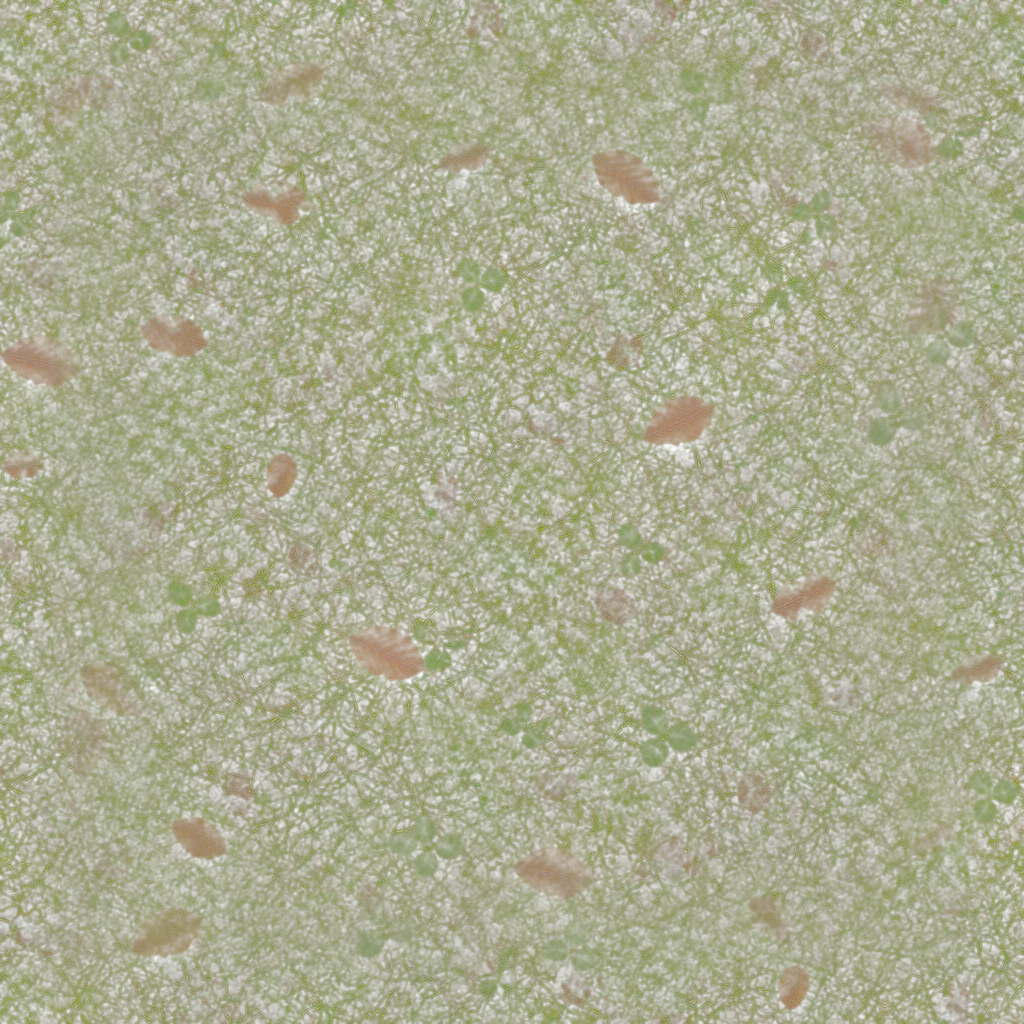
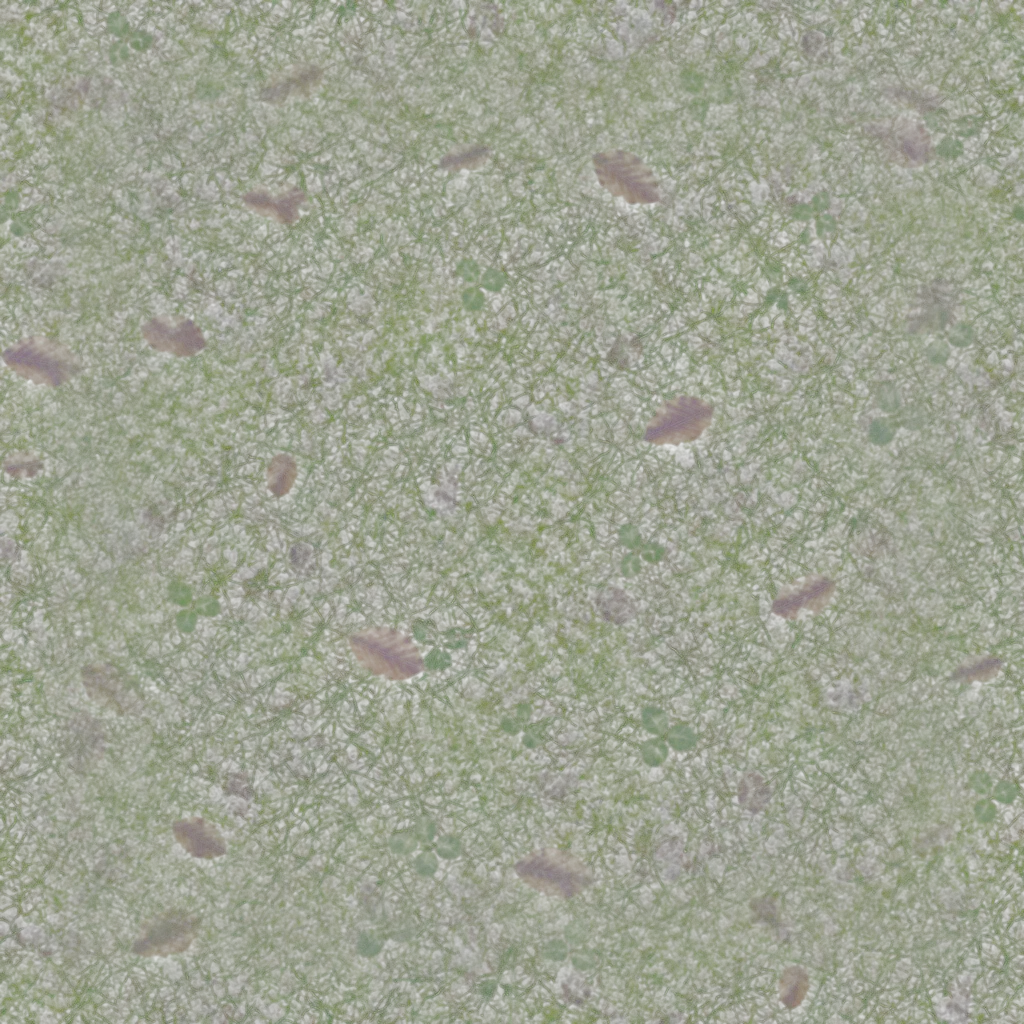
Calmer meadow colours; docs and credits for the Higgsfield assets
Claude-Session: https://claude.ai/code/session_01KVcgfLbb6B4p2PiuvDkZQT

diff --git a/NOTES.md b/NOTES.md
@@ -863,6 +863,30 @@ Asked for (in Danish) as one list. Each point, how I read it and what changed.
   over the key art, the map dropdown became picture cards (they drive the old, now hidden,
   select, so the LAN rule "the host chooses the map" still greys them out), and the loading
   screen shows the map being loaded.
+- **"Closer to 2026 than 2016"** (after upgrading Higgsfield): the user wants the existing world
+  upgraded (trees, houses, water, ghillie suit, rocks, leaves), not new objects. (A first try with
+  new landmark props was removed at once.)
+  - *Textures* (`src/hftextures.js`, files in `public/hf/`): every ground, bark and wall texture
+    and every foliage/ghillie card is a generated photo. Surfaces are made seamless (an offset
+    blend), get a height map from the high-passed luminance and a normal map from that, packed
+    like the procedural bakes (albedo + height, normal + roughness), so the existing terrain,
+    tree and rock shaders use them unchanged. Cards are generated on magenta and keyed to alpha,
+    colour-matched to the old palette (so camouflage still works) and bled into the transparent
+    texels. The photoscans (CI) still win for the conifer ground. `?hf=0` shows the old look.
+  - *Houses* (`src/models.js`, `Buildings._modelHouse`): three textured house models (farmhouse,
+    cottage, ochre village house; a tower house came out grey and was dropped), each on a stone
+    plinth that levels the slope, with a light copy beyond 90 m (effective). The collider is the
+    same convex house solid as before. Ruins stay procedural, now in photo stone.
+  - *Rocks*: three 3D rock models replace the icosphere boulders; the height maps for walking,
+    climbing and bullets are baked from the models exactly as from the old meshes.
+  - *Walls*: the masonry shader uses the photo walls with their normal maps (a derivative bump
+    from the photo's height was pixel noise, and texture reads inside the per-face branches had
+    undefined mip levels).
+  - *Water*: the mirror image skipped every near tree for speed, so the river reflected a bare
+    bank and the sky and looked milky; light copies of the near trees now stand in during the
+    reflection. Foam and white water read a real noise channel (they read a constant before), and
+    there are finer ripples near the camera.
+  - Size: about 14 MB of textures and 2.9 MB of models in the repository.
 - **Version 5.0.0** ("kald denne version 5.0"); the start screen shows *VERSION 5.0 ·
   PLAYER-REQUESTED UPDATES*. LAN and Steam players need the same version, as before.
 - **Not done / to check on a real PC:** frame rates with the new rifle, crowns and walls; the

diff --git a/CREDITS.md b/CREDITS.md
@@ -21,10 +21,15 @@ CC0 1.0, so credit is appreciated but not required.
 _No photoscanned textures downloaded. Run `npm run assets` to fetch CC0 textures from Poly Haven._
 <!-- photo-assets:end -->
 
-## Menu art
+## Menu art, textures and models made with Higgsfield
 
-The start screen's key art and the five map pictures (`public/ui/`) were generated for this
-project with [Higgsfield](https://higgsfield.ai) (Z Image model) from text prompts, in v5.0.
+Generated for this project with [Higgsfield](https://higgsfield.ai) in v5.0, from text prompts:
+
+- `public/ui/`: the start screen's key art and the five map pictures (Z Image).
+- `public/hf/`: ground, bark and wall textures and the foliage and ghillie cut-outs (GPT Image
+  2.6), made seamless and given height/normal maps, or keyed to alpha, by a local script.
+- `public/models/`: the Tuscan houses and the boulders (a GPT Image 2.6 picture turned into a
+  textured 3D model with Tripo H3.1), optimised with glTF-Transform (WebP textures, meshopt).
 
 ## Libraries
 

diff --git a/CHANGELOG.md b/CHANGELOG.md
@@ -42,6 +42,11 @@ Everything in this version was asked for by players and testers.
   and bark textures (downloaded when the program is built).
 - **New look for menus and HUD**: rounded, glassy panels in dark olive and khaki, a segmented
   tab bar, pill-shaped HUD elements and a cleaner scoreboard, kill feed and killcam.
+- **Photoreal textures and models (made with Higgsfield)**: the forest floor, meadow, beech
+  leaves, dry grass, mud, rock, the barks and the stone walls are photo textures; the spruce,
+  pine, cypress, beech and olive foliage, ferns, shrubs and the ghillie strips are photo cut-outs;
+  the Tuscan houses are textured 3D models and the boulders are 3D rock models (you can still
+  climb them). The river now mirrors the forest instead of looking milky.
 - **New start screen**: key art of a sniper over a misty valley behind the menu, and the map is
   chosen with picture cards of the five maps. The loading screen shows the map being loaded.
   The pictures were made with Higgsfield.
